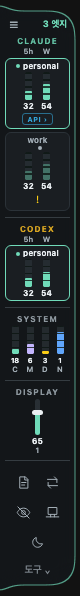
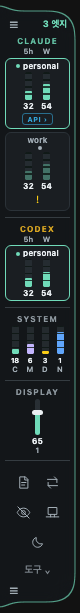
docs: 엣지 손잡이는 위·아래 어디에 두든 ☰가 옆에 온다는 규칙을 적는다 (#188)
- README(한·영): ☰는 패널 맨 위와 맨 아래에 있고, 놓은 자리에 손잡이가 선다.
- CLAUDE.md: 위와 아래가 똑같이 돼야 한다는 규칙과 그 계산, 배치 저장 방식, 한쪽 끝에서 고친
  동작은 반대쪽 끝에서 다시 해 볼 것.
- IMPLEMENTATION_STATUS: #188 행·검사 수(단위 139 · Chromium 318 · WKWebView 265), 실제 사용에서
  드러난 두 번의 결함, 격리 앱과 실제 위젯에서 본 재시작 복원.
- 엣지 화면 자료(아래쪽 ☰)와 화면 검사 원문 갱신.

diff --git a/docs/design/complete-preview.html b/docs/design/complete-preview.html
@@ -1,1 +1,1 @@
-<!doctype html><html lang="ko"><meta charset="utf-8"><title>switcher · 전체 개선 화면</title><style>*{box-sizing:border-box}body{margin:0;background:#e8ecec;color:#182024;font-family:-apple-system,BlinkMacSystemFont,sans-serif;padding:32px 38px}header{margin-bottom:30px}h1{font-size:27px;letter-spacing:-1px;margin:0 0 7px}header p{font-size:12px;color:#566568;margin:0}.layout{display:flex;align-items:flex-start;gap:36px}.views{display:flex;align-items:flex-start;gap:24px}figure{margin:0;flex:none}figcaption{height:56px}figcaption b{font-size:15px;display:block}figcaption span{font-size:10px;color:#566568;display:block;margin-top:6px;white-space:nowrap}figure>div,.crop{overflow:hidden;border-radius:12px;box-shadow:0 12px 32px #17212221}img{display:block}.api-column{width:380px;flex:none;border-left:1px solid #cad4d4;padding-left:0}.api-step h3{font-size:13px;margin:0 0 12px}.api-step+.api-step{margin-top:24px}.note{font-size:11px;line-height:1.7;color:#566568;margin-top:20px}figure .note{width:150px}</style><header><h1>switcher · 전체 개선 화면</h1><p>예시 계정으로 검증한 실제 프론트 · 세 가지 모드 · API 키 등록부터 버튼 전환까지</p></header><div class="layout"><div class="views"><figure style="width:420px"><figcaption><b>01 일반</b><span>계정 · API 키 · 전체 도구</span></figcaption><div style="height:990px"><img src="mode-normal.png" style="width:420px"></div></figure><figure style="width:120px"><figcaption><b>02 미니멀</b><span>사용량만 작게</span></figcaption><div style="height:357px"><img src="mode-minimal.png" style="width:120px"></div></figure><figure style="width:80px"><figcaption><b>03 엣지</b><span>벽 붙임 · 펼친 상태</span></figcaption><div style="height:660px"><img src="mode-edge.png" style="width:80px"></div></figure><figure style="width:120px"><figcaption><b>02 미니멀</b><span>한 번 더 = API 키</span></figcaption><div style="height:304px"><img src="mode-minimal-api-next.png" style="width:120px"></div></figure><figure style="width:80px"><figcaption><b>03 엣지</b><span>한 번 더 = API 키</span></figcaption><div style="height:596px"><img src="mode-edge-api-next.png" style="width:80px"></div></figure><figure style="width:150px"><figcaption><b>AI를 모두 숨겼을 때</b><span>SYSTEM과 도구만 남는다</span></figcaption><div style="width:120px"><img src="mode-no-ai.png" width="120"></div><p class="note">숨긴 계정의 빈 영역도 사라집니다.<br><br>계정 조작은 같은 위치에:<br>다시 연결 · 이름 변경 · 삭제</p></figure></div><aside class="api-column"><section class="api-step"><h3>API 01 · 키 등록</h3><div class="crop" style="width:380px;height:476.5625px"><img src="api-registration.png" style="width:420px;transform:translate(-20px,-256.71875px)"></div></section><section class="api-step"><h3>API 02 · 저장 후 바로 사용</h3><div class="crop" style="width:380px;height:313.78125px"><img src="api-result.png" style="width:420px;transform:translate(-20px,-338.109375px)"></div></section><p class="note">연결 확인·사용량은 검증용 예시 데이터입니다.<br>실제 키를 등록하면 해당 연결의 결과를 표시합니다.</p></aside></div></html>
+<!doctype html><html lang="ko"><meta charset="utf-8"><title>switcher · 전체 개선 화면</title><style>*{box-sizing:border-box}body{margin:0;background:#e8ecec;color:#182024;font-family:-apple-system,BlinkMacSystemFont,sans-serif;padding:32px 38px}header{margin-bottom:30px}h1{font-size:27px;letter-spacing:-1px;margin:0 0 7px}header p{font-size:12px;color:#566568;margin:0}.layout{display:flex;align-items:flex-start;gap:36px}.views{display:flex;align-items:flex-start;gap:24px}figure{margin:0;flex:none}figcaption{height:56px}figcaption b{font-size:15px;display:block}figcaption span{font-size:10px;color:#566568;display:block;margin-top:6px;white-space:nowrap}figure>div,.crop{overflow:hidden;border-radius:12px;box-shadow:0 12px 32px #17212221}img{display:block}.api-column{width:380px;flex:none;border-left:1px solid #cad4d4;padding-left:0}.api-step h3{font-size:13px;margin:0 0 12px}.api-step+.api-step{margin-top:24px}.note{font-size:11px;line-height:1.7;color:#566568;margin-top:20px}figure .note{width:150px}</style><header><h1>switcher · 전체 개선 화면</h1><p>예시 계정으로 검증한 실제 프론트 · 세 가지 모드 · API 키 등록부터 버튼 전환까지</p></header><div class="layout"><div class="views"><figure style="width:420px"><figcaption><b>01 일반</b><span>계정 · API 키 · 전체 도구</span></figcaption><div style="height:990px"><img src="mode-normal.png" style="width:420px"></div></figure><figure style="width:120px"><figcaption><b>02 미니멀</b><span>사용량만 작게</span></figcaption><div style="height:357px"><img src="mode-minimal.png" style="width:120px"></div></figure><figure style="width:80px"><figcaption><b>03 엣지</b><span>벽 붙임 · 펼친 상태</span></figcaption><div style="height:677px"><img src="mode-edge.png" style="width:80px"></div></figure><figure style="width:120px"><figcaption><b>02 미니멀</b><span>한 번 더 = API 키</span></figcaption><div style="height:304px"><img src="mode-minimal-api-next.png" style="width:120px"></div></figure><figure style="width:80px"><figcaption><b>03 엣지</b><span>한 번 더 = API 키</span></figcaption><div style="height:613px"><img src="mode-edge-api-next.png" style="width:80px"></div></figure><figure style="width:150px"><figcaption><b>AI를 모두 숨겼을 때</b><span>SYSTEM과 도구만 남는다</span></figcaption><div style="width:120px"><img src="mode-no-ai.png" width="120"></div><p class="note">숨긴 계정의 빈 영역도 사라집니다.<br><br>계정 조작은 같은 위치에:<br>다시 연결 · 이름 변경 · 삭제</p></figure></div><aside class="api-column"><section class="api-step"><h3>API 01 · 키 등록</h3><div class="crop" style="width:380px;height:476.5625px"><img src="api-registration.png" style="width:420px;transform:translate(-20px,-256.71875px)"></div></section><section class="api-step"><h3>API 02 · 저장 후 바로 사용</h3><div class="crop" style="width:380px;height:313.78125px"><img src="api-result.png" style="width:420px;transform:translate(-20px,-338.109375px)"></div></section><p class="note">연결 확인·사용량은 검증용 예시 데이터입니다.<br>실제 키를 등록하면 해당 연결의 결과를 표시합니다.</p></aside></div></html>

diff --git a/docs/design/view-modes.html b/docs/design/view-modes.html
@@ -1,1 +1,1 @@
-<!doctype html><html lang="ko"><meta charset="utf-8"><title>switcher · 세 가지 모드</title><style>*{box-sizing:border-box}body{margin:0;background:#e8ecec;color:#182024;font-family:-apple-system,BlinkMacSystemFont,sans-serif;padding:32px 38px}header{display:flex;align-items:baseline;gap:16px;margin-bottom:28px}h1{font-size:26px;letter-spacing:-1px;margin:0}header span{font-size:12px;color:#566568}.views{display:flex;align-items:flex-start;gap:30px}figure{margin:0;flex:none}figcaption{height:56px}b{font-size:15px;display:block}figcaption span{font-size:10px;color:#566568;display:block;margin-top:6px;white-space:nowrap}figure div{overflow:hidden;border-radius:12px;box-shadow:0 12px 32px #17212221}img{display:block}</style><header><h1>switcher</h1><span>실제 프론트 화면 · 예시 계정 · 3개 모드</span></header><div class="views"><figure style="width:420px"><figcaption><b>01 일반</b><span>계정 · API 키 · 전체 도구</span></figcaption><div style="height:990px"><img src="mode-normal.png" style="width:420px"></div></figure><figure style="width:120px"><figcaption><b>02 미니멀</b><span>사용량만 작게</span></figcaption><div style="height:357px"><img src="mode-minimal.png" style="width:120px"></div></figure><figure style="width:80px"><figcaption><b>03 엣지</b><span>벽 붙임 · 펼친 상태</span></figcaption><div style="height:660px"><img src="mode-edge.png" style="width:80px"></div></figure><figure style="width:120px"><figcaption><b>02 미니멀</b><span>한 번 더 = API 키</span></figcaption><div style="height:304px"><img src="mode-minimal-api-next.png" style="width:120px"></div></figure><figure style="width:80px"><figcaption><b>03 엣지</b><span>한 번 더 = API 키</span></figcaption><div style="height:596px"><img src="mode-edge-api-next.png" style="width:80px"></div></figure></div></html>
+<!doctype html><html lang="ko"><meta charset="utf-8"><title>switcher · 세 가지 모드</title><style>*{box-sizing:border-box}body{margin:0;background:#e8ecec;color:#182024;font-family:-apple-system,BlinkMacSystemFont,sans-serif;padding:32px 38px}header{display:flex;align-items:baseline;gap:16px;margin-bottom:28px}h1{font-size:26px;letter-spacing:-1px;margin:0}header span{font-size:12px;color:#566568}.views{display:flex;align-items:flex-start;gap:30px}figure{margin:0;flex:none}figcaption{height:56px}b{font-size:15px;display:block}figcaption span{font-size:10px;color:#566568;display:block;margin-top:6px;white-space:nowrap}figure div{overflow:hidden;border-radius:12px;box-shadow:0 12px 32px #17212221}img{display:block}</style><header><h1>switcher</h1><span>실제 프론트 화면 · 예시 계정 · 3개 모드</span></header><div class="views"><figure style="width:420px"><figcaption><b>01 일반</b><span>계정 · API 키 · 전체 도구</span></figcaption><div style="height:990px"><img src="mode-normal.png" style="width:420px"></div></figure><figure style="width:120px"><figcaption><b>02 미니멀</b><span>사용량만 작게</span></figcaption><div style="height:357px"><img src="mode-minimal.png" style="width:120px"></div></figure><figure style="width:80px"><figcaption><b>03 엣지</b><span>벽 붙임 · 펼친 상태</span></figcaption><div style="height:677px"><img src="mode-edge.png" style="width:80px"></div></figure><figure style="width:120px"><figcaption><b>02 미니멀</b><span>한 번 더 = API 키</span></figcaption><div style="height:304px"><img src="mode-minimal-api-next.png" style="width:120px"></div></figure><figure style="width:80px"><figcaption><b>03 엣지</b><span>한 번 더 = API 키</span></figcaption><div style="height:613px"><img src="mode-edge-api-next.png" style="width:80px"></div></figure></div></html>

diff --git a/docs/IMPLEMENTATION_STATUS.md b/docs/IMPLEMENTATION_STATUS.md
@@ -14,12 +14,12 @@
 | [#184](https://github.com/Youkamii/switcher/issues/184) | 엣지의 펼친 판에서 누를 수 있는 카드에 호버를 그린다. macOS의 비활성 패널에는 `:hover`가 오지 않아 러스트 커서 폴링으로 그린다. | `5bc7886` |
 | [#185](https://github.com/Youkamii/switcher/issues/185) | 엣지 손잡이의 높이. 패널이 길어 창을 더 옮길 수 없을 때 ☰를 화면 위·아래 끝 너머로 끌면 손잡이가 그만큼 옮겨진다. | `5bc7886` |
 | [#186](https://github.com/Youkamii/switcher/issues/186) | 미니멀·엣지에서 사용 중인 계정을 한 번 더 누르면 그 계정의 API 키, 다시 누르면 구독. API 상태는 테마별 API 색으로 표시한다. [사용법](API_CONNECTIONS.md#위젯-모드에서-구독--api) | `73e899e` |
-| [#188](https://github.com/Youkamii/switcher/issues/188) | 엣지의 작은 손잡이는 **마우스를 놓은 자리**에 선다. ☰로 판을 옮겨 놓으면 손잡이는 놓인 판의 위쪽 끝(☰ 옆)에 서고, 화면 맨 위·맨 아래까지 옮기면 벽 끝에 선다. 접힌 손잡이를 누른 채 끌어도 된다. 높이·벽·판 안에서의 손잡이 자리를 저장해 위젯을 다시 띄워도 그대로이고, 판 높이가 바뀌어도 손잡이는 화면에서 제자리다. | `68fd83a`, `a916bc4` |
+| [#188](https://github.com/Youkamii/switcher/issues/188) | 엣지의 작은 손잡이는 **마우스를 놓은 자리**에 선다. ☰는 판 맨 위와 맨 아래에 하나씩(벽 쪽) 있고, 판은 손잡이의 위쪽 끝이나 아래쪽 끝에 붙는다 — 화면 위쪽에 놓으면 손잡이 아래로, 아래쪽에 놓으면 손잡이 위로 열려 어디서든 ☰가 손잡이 옆에 온다. 높이·벽·배치를 저장해 위젯을 다시 띄워도 그대로이고, 판 높이가 바뀌어도 손잡이는 화면에서 제자리다. | `68fd83a`, `a916bc4`, `40c4f6b` |
 | [#187](https://github.com/Youkamii/switcher/issues/187) | 일반 모드 제목 줄의 **API 키 추가**는 계정을 고르지 않는다. 키만 넣으면 주인 계정을 찾아 그 계정 밑에 저장하고, 못 찾을 때만 묻는다. [규칙](API_CONNECTIONS.md#계정을-고르지-않고-추가하기) · [화면](design/api-key-only.png) | `daa5036`, `51dc73a` |
 
 ### 검증
 
-Rust 263개(무시 23개 제외), 프론트 단위 131개, Chromium 화면 검사 305개, macOS WKWebView 화면 검사 252개, 배치 검사 7개가 통과했다. 화면 검사는 빌드된 프론트와 가상 계정을 쓴다. [Chromium 검사 원문](view-mode-test-results.json) · [WKWebView 검사 원문](view-mode-webkit-test-results.json) · [세 모드와 `API ›` 예고 화면](design/view-modes.png)
+Rust 263개(무시 23개 제외), 프론트 단위 139개, Chromium 화면 검사 318개, macOS WKWebView 화면 검사 265개, 배치 검사 7개가 통과했다. 화면 검사는 빌드된 프론트와 가상 계정을 쓴다. [Chromium 검사 원문](view-mode-test-results.json) · [WKWebView 검사 원문](view-mode-webkit-test-results.json) · [세 모드와 `API ›` 예고 화면](design/view-modes.png)
 
 ```bash
 npm test
@@ -49,10 +49,12 @@ node scripts/review-layout.mjs
 | 엣지: 왼쪽 벽·벽의 30% 높이·판 안 100px를 저장해 두고 다시 실행 | 왼쪽 벽에 붙고(x 0) 창과 손잡이가 저장한 자리에 선다. 저장값은 바뀌지 않는다 |
 | 엣지: 벽 맨 아래 / 맨 위를 저장해 두고 다시 실행 (오른쪽·왼쪽 벽) | 창이 작업영역 바닥(1153) / 꼭대기(38)에 닿고 손잡이가 벽 끝에 선다 |
 | 실제 위젯: 보이던 자리(창 269, 손잡이 화면 858)를 저장하고 새 빌드로 다시 실행 | 같은 자리(1840, 269)에 그대로 뜬다 — 전에는 다시 띄울 때마다 화면 아래로 돌아갔다 |
+| 엣지: 벽 아래쪽 높이 + "판이 손잡이 위로"(아래쪽 끝) 배치를 저장해 두고 다시 실행 | 창 아래쪽 끝이 손잡이에 붙은 채로 뜬다(손잡이는 저장한 높이). 위쪽 끝 배치와 끝 표시가 없는 옛 값도 맞게 뜬다 |
+| 실제 위젯: 화면 아래쪽에 둔 손잡이(화면 1015)에 "판이 위로" 배치를 넣고 다시 실행 | 창이 403~1074로 떠 손잡이는 그 자리, 판은 그 위로 선다 |
 
 재시작 복원은 화면이 잠긴 상태에서 창 좌표와 러스트 진단 로그로 확인했다(입력이 필요 없다). **☰로 옮기기와 손잡이 끌기를 실제 포인터로 확인하지는 못했다** — 두 번 다 화면이 잠겨 있었고, 잠긴 화면에서는 클릭·드래그가 앱에 닿지 않는다(프로세스에 직접 넣은 이벤트도 닿지 않았다. 커서 이동과 호버 펼침만 된다). 그 동작들은 Chromium과 WKWebView 화면 검사가 포인터 이벤트와 가짜 창(이동이 늦게 반영된다)으로 본다 — 판을 맨 위로 옮기면 손잡이도 맨 위, 맨 아래로 옮기면 맨 아래, 창이 이미 맨 위에 막혀 있어도 ☰를 위로 밀면 손잡이가 올라옴, ☰를 누르기만 하면 그대로, 반대쪽 벽으로 옮기기, 손잡이 직접 끌기와 클릭 삼킴.
 
-실제 사용에서 본 것(2026-11-22): 사용자가 ☰로 판을 화면 맨 위에 올렸을 때 첫 판(`68fd83a`)은 손잡이를 판 안의 예전 자리에 두어, 판은 맨 위(38)인데 손잡이는 579px 아래에 남았다 — "마우스는 저 위에 있는데 작아진 창은 아래 있어봐야". `a916bc4`가 그 규칙을 "마우스를 놓은 자리"로 바꿨다.
+실제 사용에서 본 것(2026-11-22~23): 사용자가 ☰로 판을 화면 맨 위에 올렸을 때 첫 판(`68fd83a`)은 손잡이를 판 안의 예전 자리에 두어, 판은 맨 위(38)인데 손잡이는 579px 아래에 남았다 — "마우스는 저 위에 있는데 작아진 창은 아래 있어봐야". 둘째 판(`a916bc4`)은 위쪽만 맞았다 — 손잡이를 아래에 두면 판이 바닥에 눌려 ☰가 손잡이에서 500px 위에 떨어지고, 거기서 ☰를 조금 내리면 손잡이가 위로 튀었다("위는 되어도 아래가"). 셋째 판(`40c4f6b`)이 판 아래쪽에도 ☰를 두고 판을 손잡이의 위·아래 어느 끝에든 붙인다. `a916bc4`가 그 규칙을 "마우스를 놓은 자리"로 바꿨다.
 
 실계정에서 관측한 것(2026-11-22, Claude Code 2.1.328): 구독으로 작업 중이던 세션이 API 선택 직후의 요청에서 `billing_error`("Credit balance is too low")로 거절됐고, 구독으로 돌아오자 이어졌다. 그 키의 조직은 이틀 전 Console에 크레딧이 표시된 곳이었다 — 플랜의 월간 API 크레딧은 대화형 Claude Code에 쓰이지 않는다는 [공식 안내](https://support.claude.com/en/articles/17154008-monthly-api-credits-for-max-ultra-and-team-plans)와 맞는다. 같은 키를 환경변수로 준 `claude -p`는 사용자 승인하에 실제로 호출해 Haiku 5.5·Fable 5.2 모두 응답을 받았다(합계 약 0.11달러). 월간 크레딧은 이 경로로 쓴다 — [쓰는 법](API_CONNECTIONS.md). Claude Code의 API 선택·해제는 실행 중인 세션에도 바로 적용된다는 뜻이어서 앱과 문서의 "다음 CLI 실행부터" 안내를 고쳤다.
 
@@ -60,7 +62,7 @@ node scripts/review-layout.mjs
 
 남은 범위:
 
-- 엣지 손잡이 옮기기(#188)를 실제 포인터로 확인하지 못했다(macOS: 화면 잠금, Windows: 실기기 없음). 볼 것: ☰로 판을 옮겨 놓은 뒤 접히면 손잡이가 ☰ 옆에 서는지(맨 위·맨 아래·가운데·반대쪽 벽), ☰를 누르기만 했을 때 그대로인지, 접힌 손잡이를 눌러 끌 때 판이 접히고 손잡이가 따라오는지, 놓은 뒤 카드가 눌리지 않는지.
+- 엣지 손잡이 옮기기(#188)를 실제 포인터로 확인하지 못했다(macOS: 화면 잠금, Windows: 실기기 없음). 볼 것: ☰로 판을 옮겨 놓은 뒤 접히면 손잡이가 놓은 자리에 서는지(맨 위·맨 아래·가운데·반대쪽 벽), 아래쪽에 둔 손잡이를 아래 ☰로 조금 올리고 내릴 때 그만큼만 움직이는지, 아래 ☰를 위로 끝까지 밀면 손잡이가 위쪽으로 넘어오는지, ☰를 누르기만 했을 때 그대로인지, 접힌 손잡이를 눌러 끌 때 판이 접히고 손잡이가 따라오는지, 놓은 뒤 카드가 눌리지 않는지.
 - Windows 실기기의 포인터 동작은 확인하지 못했다 — 엣지의 클릭 전환과 색, 미니멀의 더블클릭 전환, ☰로 판을 옮긴 뒤 손잡이 자리, `API` 칩의 글자 폭, 제목 줄 **API 키 추가** 창과 계정 목록의 모양(WebView2).
 - 실제 키를 새로 등록해 조직 이름으로 다른 계정에 들어가는 것은 사용자의 키가 하나뿐이라 해 보지 못했다(이미 등록된 키의 주인 판별만 확인).
 - `docs/screenshot.png`(README 첫 그림)는 아직 네 모드 화면이다.

diff --git a/CLAUDE.md b/CLAUDE.md
@@ -66,14 +66,16 @@
 
 - 보기 모드는 **1 일반 / 2 미니멀 / 3 엣지** 셋이다. 2 컴팩트는 없앴다(#183) — 다시 제안하지 말 것. 이 문서와 코드 주석의 옛 이름은 Type1 = 일반, Type2(컴팩트) = 폐지, Type3 = 미니멀, Type4 = 엣지로 읽는다. 코드의 `compact*` 이름은 "축소 레이아웃"이라는 뜻으로 미니멀이 쓴다.
 - **엣지 손잡이의 자리 (#185·#188)**: 지키는 값은 손잡이가 벽에서 서 있는 높이 하나다(`switcher.edgeanchor`, 벽 길이에 대한 비율). 창은 그 손잡이를 담은 채 작업영역 안에서 필요한 만큼만 움직인다 — 계산은 `src/edgeAnchor.ts`, 화면 쪽은 `main.ts`의 `placeOnEdge`.
-- **작은 손잡이는 마우스를 놓은 자리에 선다 (사용자 지시 2026-11-22: "마우스는 저 위에 있는데 작아진 창은 아래 있어봐야")**. 사용자는 펼친 판의 ☰를 잡고 옮긴다 — 그러니 ☰로 판을 옮겨 놓으면 손잡이는 놓인 판의 위쪽 끝, ☰ 옆에 서야 한다(`placeOnEdge`의 `dragged`). 판을 화면 맨 위에 올리면 손잡이도 맨 위, 맨 아래까지 끌어 놓으면(창은 작업영역 안으로 돌아오고) 손잡이는 맨 아래다. **판 안에서 손잡이가 있던 자리를 따라가게 하지 말 것** — #185와 #188의 첫 판이 그랬고(판 가운데·판 아래쪽에 남음), 판을 올려도 손잡이는 수백 px 아래에 남아 두 번 다 "안 된다"는 말을 들었다. 사용자가 옮기는 동작에서 마우스가 있는 곳과 결과가 놓이는 곳이 다르면 그 설계는 틀린 것이다.
+- **작은 손잡이는 마우스를 놓은 자리에 선다 (사용자 지시 2026-11-22~23: "마우스는 저 위에 있는데 작아진 창은 아래 있어봐야", "위는 되어도 아래가")**. 사용자는 펼친 판의 ☰를 잡고 옮긴다 — 그러니 ☰로 판을 옮겨 놓으면 손잡이는 마우스를 놓은 높이에 서야 한다. **판 안에서 손잡이가 있던 자리를 따라가게 하지 말 것** — #185와 #188의 첫 판이 그랬고(판 가운데·판 아래쪽에 남음), 판을 올려도 손잡이는 수백 px 아래에 남았다. 사용자가 옮기는 동작에서 마우스가 있는 곳과 결과가 놓이는 곳이 다르면 그 설계는 틀린 것이다.
+- **위와 아래가 똑같이 돼야 한다.** 판은 손잡이의 위쪽 끝이나 아래쪽 끝에 붙는다(`edgeAnchor.ts` `edgeDropPlacement`): 화면 위쪽에 놓으면 판이 손잡이 아래로 열리고, 아래쪽에 놓으면 손잡이 위로 열린다 — 화면 안에 들어가는 쪽, 둘 다 되면 놓인 자리에 가까운 쪽. ☰는 판의 맨 위(`edgeBar`)와 맨 아래(`#edge-grip-bottom`, 독 끝)에 하나씩, **벽 쪽**에 있다. 그래서 손잡이에 마우스를 대면 어느 쪽에서든 잡는 곳이 마우스 바로 옆에 온다. 둘째 판(`a916bc4`)은 위쪽 ☰ 하나에 "손잡이는 ☰ 옆"만 넣어, 손잡이를 아래에 두면 ☰가 500px 위에 떨어지고 거기서 조금 내리면 손잡이가 위로 튀었다. 한쪽 끝에서 고친 동작은 반대쪽 끝에서 같은 손놀림으로 다시 해 볼 것.
+- 배치는 "손잡이가 판의 어느 끝에서 얼마나 떨어져 있는가"로 적는다(`switcher.edgeend`·`switcher.edgetab`, `edgeArrangedTop`). 위에서 잰 px 하나로만 적으면 판 높이가 바뀔 때 아래쪽 끝이 손잡이에서 떨어진다. `switcher.edgeend`가 없는 옛 값은 위쪽 끝에서 잰 것으로 읽는다.
 - 접힌 손잡이를 누른 채 위아래로 끄는 길도 있다(벽 끝에서 끝까지, 창은 필요할 때만 따라온다). 이것은 덤이다 — ☰의 동작을 대신하지 못한다.
 - 앱은 늘 화면 오른쪽 아래에서 뜬다(`lib.rs` `position_bottom_right`) — 창 위치는 어디에도 저장되지 않는다. 엣지는 높이·벽(`switcher.edgeside`)·판 안에서의 손잡이 자리(`switcher.edgetab`)를 저장하고 들어올 때마다 되돌린다. 저장하지 않던 때는 **내가 위젯을 다시 띄울 때마다** 사용자의 손잡이가 화면 아래로 돌아갔다("위치 조정이 또 안 된다"). 일반·미니멀은 지금도 다시 띄우면 오른쪽 아래다.
-- `switcher.edgetab`은 사용자가 정한 배치다. 판이 커져 화면 끝에 눌린 동안의 자리(`edgeTabShown`)는 그리기만 하고 저장하지 않는다 — 저장하면 눌림이 풀려도 돌아오지 못하고, 시작할 때의 작은 골격 높이가 배치를 덮어쓴다.
+- 저장된 배치는 사용자가 정한 것이다. 판이 커져 화면 끝에 눌린 동안의 자리(`edgeTabShown`)는 그리기만 하고 저장하지 않는다 — 저장하면 눌림이 풀려도 돌아오지 못하고, 시작할 때의 작은 골격 높이가 배치를 덮어쓴다.
 - **창 이동은 호출이 끝난 뒤에야 반영된다.** `await setPosition()` 직후의 `outerPosition()`은 옮기기 전 값일 수 있다(격리 실행 실측: 저장된 왼쪽 벽으로 옮긴 다음 스냅이 옛 위치를 읽고 오른쪽 벽으로 되돌렸다). 그래서 스냅은 한 번에 하나만 돌고(`snapToEdge`), 정하는 자리는 방금 읽은 위치에 기대지 않는다 — 세로는 저장된 자리에서, 벽 복원은 그 벽에 와 있는 것을 본 뒤에야 끝낸다. 읽은 위치를 믿는 것은 ☰ 드롭 직후뿐이다. Chromium 하네스의 가짜 창도 이동을 늦게 반영한다 — 바로 반영하면 이 결함이 재현되지 않는다.
 - 손잡이 끌기의 판정: 커서가 닿으면 판이 펼쳐지므로 "손잡이가 있던 자리에서 시작한 세로 끌기"로 알아본다(손잡이를 겨냥한 누름 4px, 보이는 내용 위에서 시작한 누름 12px). 끄는 동안 손잡이는 창 안에서 먼저 움직이고 창 끝에 닿으면 창이 따라온다 — 창과 손잡이를 한꺼번에 옮기면 반영 시점이 달라 떨린다. 러스트에는 `set_edge_drag`로 알려 폴링이 창을 투과로 바꾸지 않게 하고, 놓는 이벤트를 못 받아도 버튼 상태(폴링 3번)로 끝낸다.
 - **판이 나오기 시작하고 0.7초 동안 내용은 보이지 않지만 클릭은 받는다**(`edge-content-in`의 지연). 그 사이에 시작한 누름과 끌기가 된 누름의 click은 캡처 단계에서 삼킨다 — 손잡이를 잡으려던 누름이 그 밑의 카드로 계정(또는 유료 API 키)을 넘기면 안 된다.
-- ☰는 네이티브 창 드래그라 그동안 웹뷰가 포인터를 못 본다. "실제로 끌었는가"는 창이 움직였는가(누를 때 적어 둔 위치와 비교)와 커서가 움직였는가로 본다 — 뒤의 것은 러스트 폴링이 남긴다(`arm_grip_drop` → `take_grip_drop`, 누른 자리와 버튼을 쥔 채 마지막으로 본 자리). 창이 이미 화면 끝에 막혀 움직이지 못해도 끈 것으로 쳐야 하고, 누르기만 한 ☰는 손잡이를 옮기면 안 된다. ☰를 누른 뒤의 정착만 사용자의 옮기기로 본다(`edgeGripPressed` → `edgeGripDrop`) — 예전에는 모든 창 이동의 정착에서 커서를 읽어, 창이 맨 위에 있으면 크기 맞춤만으로 손잡이가 올라갈 수 있었다.
+- ☰는 네이티브 창 드래그라 그동안 웹뷰가 포인터를 못 본다. "실제로 끌었는가"는 창이 움직였는가(누를 때 적어 둔 위치와 비교)와 커서가 움직였는가로 본다 — 뒤의 것은 러스트 폴링이 남긴다(`arm_grip_drop` → `take_grip_drop`, 누른 자리와 버튼을 쥔 채 마지막으로 본 자리). 창이 이미 화면 끝에 막혀 움직이지 못해도 끈 것으로 쳐야 하고, 누르기만 한 ☰는 손잡이를 옮기면 안 된다. ☰를 누른 뒤의 정착만 사용자의 옮기기로 본다(`edgeGripPressed` → `edgeGripDrop`) — 예전에는 모든 창 이동의 정착에서 커서를 읽어, 창이 맨 위에 있으면 크기 맞춤만으로 손잡이가 올라갈 수 있었다. 러스트 기록의 "놓은 자리"는 그 기록의 "누른 자리"가 ☰를 실제로 누른 자리(누를 때의 창 위치 + `clientY`)와 맞을 때만 쓴다 — OS가 창을 막아 마우스만 더 간 경우(맥의 메뉴 막대)를 위한 값이고, 안 맞으면 쥐었던 끝을 쓴다.
 
 ## 위젯 모드의 구독 ↔ API 전환 (#186, 실측 2026-11-22)
 

diff --git a/README.md b/README.md
@@ -143,7 +143,7 @@ Claude Code와 Codex CLI는 한 번에 한 계정만 씁니다. 계정이 여럿
 - **전환** — 다른 계정 카드를 짧게 클릭하면 바로 바뀝니다. 사용 중인 계정을 한 번 더 클릭하면 그 계정의 API 키로, 다시 클릭하면 구독으로 돌아옵니다.
 - **남은 시간** — 패널을 꾹 누르고 있으면 % 자리에 초기화까지 남은 시간이 뜹니다. `4d`는 파랑, `2h`는 초록, `52m`은 빨강.
 - **접힘** — 마우스가 벗어나고 약 0.5초 뒤 손잡이로 돌아갑니다. ☰를 끌어 화면 가운데를 넘겨 놓으면 반대쪽 벽으로 옮겨 붙습니다.
-- **손잡이 옮기기** — 펼친 패널의 ☰를 잡고 옮기면, 접혔을 때의 손잡이가 **놓은 자리(☰ 옆)** 에 섭니다. 화면 맨 위에 올리면 손잡이도 맨 위에, 맨 아래까지 끌어 놓으면 맨 아래에 섭니다. 접힌 손잡이를 누른 채 위아래로 끌어도 됩니다. 놓은 자리와 벽은 위젯을 다시 켜도 그대로입니다.
+- **손잡이 옮기기** — 펼친 패널의 ☰를 잡고 옮기면, 접혔을 때의 손잡이가 **놓은 자리**에 섭니다. ☰는 패널 맨 위와 맨 아래에 하나씩, 벽 쪽에 있습니다. 화면 위쪽에 놓으면 패널이 손잡이 아래로, 아래쪽에 놓으면 손잡이 위로 열려서 어디에 두든 ☰가 손잡이 바로 옆에 옵니다. 놓은 자리와 벽은 위젯을 다시 켜도 그대로입니다.
 - 펼친 패널은 마우스를 그대로 받습니다. 접힌 상태에서는 손잡이 밖만 뒤 창으로 통과합니다.
 
 <sub>데모의 계정 이름은 예시이고 커서는 편집으로 넣었습니다.</sub>
@@ -214,7 +214,7 @@ Claude Code와 Codex CLI는 한 번에 한 계정만 씁니다. 계정이 여럿
 | 구독 ↔ API 키 | 미니멀·엣지에서 `API ›`가 붙은 사용 중인 계정 카드를 **한 번 더** 누르면 그 계정의 API 키, **다시** 누르면 구독 (미니멀은 더블클릭) |
 | 초기화까지 남은 시간 | 엣지 패널을 **꾹 누르기** |
 | 엣지 벽 옮기기 | ☰를 끌어 화면 반대편에 놓기 |
-| 엣지 손잡이 높이 | ☰를 잡고 원하는 높이에 놓기 (또는 접힌 손잡이를 누른 채 끌기) |
+| 엣지 손잡이 높이 | ☰(패널 맨 위·맨 아래)를 잡고 원하는 높이에 놓기 |
 | 섹션 순서 바꾸기 | 일반 모드에서 섹션 제목을 끌어서 배치 |
 | 위젯 아래 창 조작 | 미니멀의 빈 영역, 엣지의 접힌 손잡이 밖은 클릭이 뒤로 통과 |
 | 도구 독 열기 | 창 아래 **▲** 손잡이. 📝 메모 · 🚗 TFSD · 🙈 가리기 · ☕ 클램셸 · 🌙 블랙 모니터 |

diff --git a/docs/README.en.md b/docs/README.en.md
@@ -131,7 +131,7 @@ New in **v2.0**. The widget rests as a handle on whichever screen edge is closer
 - **Switch** — a short click on another account card switches right away. Click the account in use once more to use its API key, and again to return to the subscription.
 - **Time to reset** — press and hold the panel to replace the % with the time left: `4d` in blue, `2h` in green, `52m` in red.
 - **Collapse** — about half a second after the mouse leaves, it returns to the handle. Drag ☰ past the middle of the screen to dock on the other edge.
-- **Moving the handle** — grab ☰ on the open panel and move it: when the panel collapses, the handle sits **where you let go, next to ☰**. Carry the panel to the top of the screen and the handle is at the top; drop it at the very bottom and the handle is at the bottom. You can also press the collapsed handle and drag it up or down. The spot and the edge are remembered across restarts.
+- **Moving the handle** — grab ☰ on the open panel and move it: when the panel collapses, the handle sits **where you let go**. There is a ☰ at the top and at the bottom of the panel, on the edge side. Dropped in the upper part of the screen the panel opens below the handle, dropped in the lower part it opens above it, so a ☰ is always right next to the handle. The spot and the edge are remembered across restarts.
 - The expanded panel takes the mouse (no click-through). While collapsed, only the area outside the handle passes through.
 
 <sub>Sample account names; the cursor was added in editing.</sub>
@@ -202,7 +202,7 @@ New in **v2.0**. The widget rests as a handle on whichever screen edge is closer
 | Subscription ↔ API key | In Minimal and Edge, press the account in use (marked `API ›`) **once more** for that account's API key, and **again** for the subscription (double-click in Minimal) |
 | See time to reset | **Press and hold** the Edge panel |
 | Move Edge to the other side | Drag ☰ past the middle of the screen |
-| Move the Edge handle up or down | Grab ☰ and drop it at the height you want (or press the collapsed handle and drag) |
+| Move the Edge handle up or down | Grab ☰ (top or bottom of the panel) and drop it at the height you want |
 | Reorder sections | Drag section titles in the Full mode |
 | Use the window underneath | Empty areas in Minimal and the area outside the collapsed Edge handle pass clicks through |
 | Open the tool dock | **▲** at the bottom of the window: 📝 memo · 🚗 TFSD · 🙈 privacy · ☕ clamshell · 🌙 black monitor |
